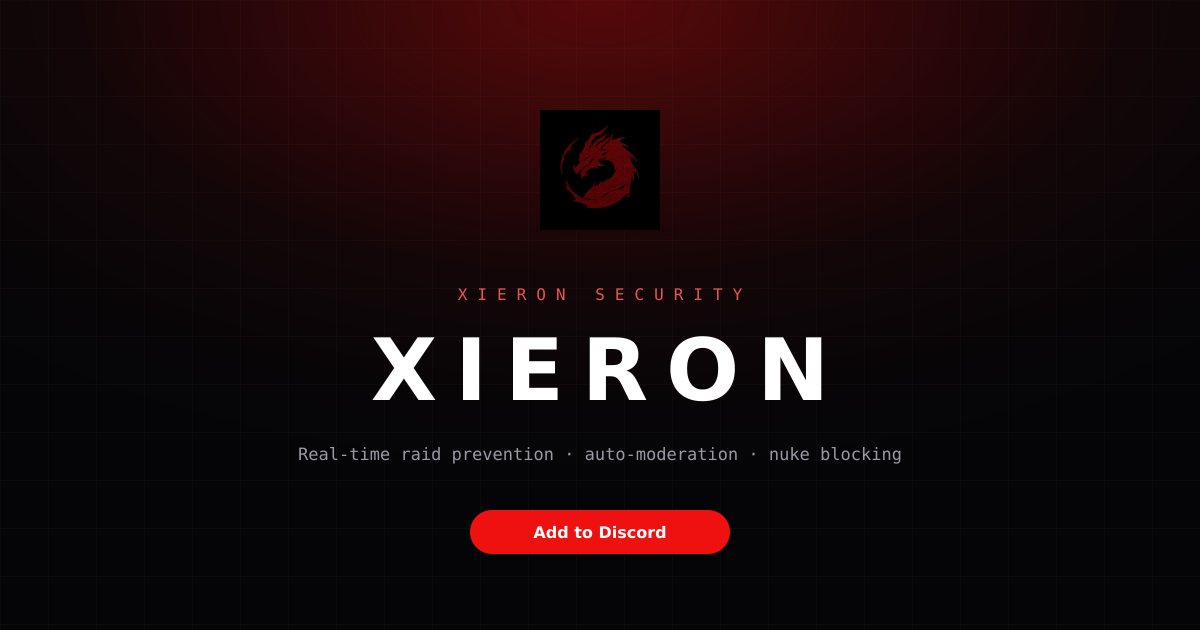
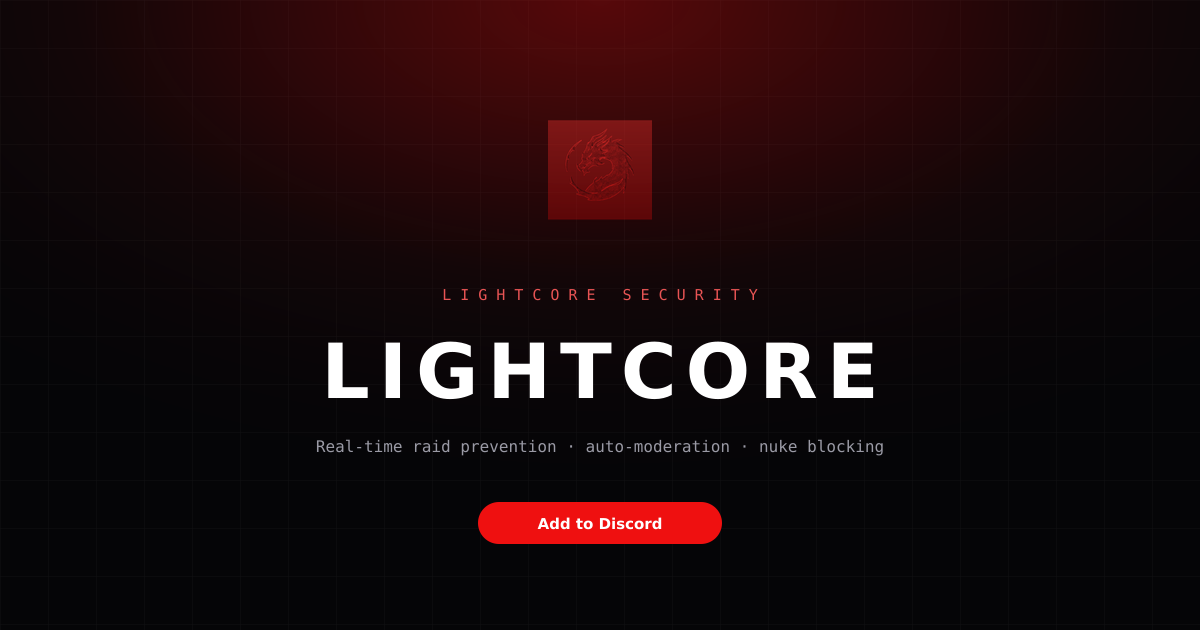
rebrand: XIERON -> LightCore everywhere
- all copy, metadata, titles, JSON-LD and legal pages
- brand assets renamed (lightcore-512/logo/mark), OG image regenerated
- new LIGHT·CORE wordmark tuned for 9 glyphs
- site.url -> https://lightcore.vercel.app
- package/lockfile name -> lightcore
- fix: console rows no longer clip at the top
- fix: SVG <title> no longer leaks into document title

diff --git a/src/app/layout.tsx b/src/app/layout.tsx
@@ -60,13 +60,13 @@ const jetbrainsMono = localFont({
 export const metadata: Metadata = {
   metadataBase: new URL(site.url),
   title: {
-    default: "XIERON | Advanced Discord Security & Anti-Nuke Bot",
-    template: "%s | XIERON",
+    default: "LIGHTCORE | Advanced Discord Security & Anti-Nuke Bot",
+    template: "%s | LIGHTCORE",
   },
   description: site.description,
-  applicationName: "XIERON",
+  applicationName: "LIGHTCORE",
   keywords: [
-    "Xieron",
+    "LightCore",
     "Discord security bot",
     "anti-nuke",
     "anti-raid",
@@ -75,27 +75,27 @@ export const metadata: Metadata = {
     "Discord moderation",
     "server protection",
   ],
-  authors: [{ name: "XIERON Security" }],
-  creator: "XIERON Security",
+  authors: [{ name: "LightCore Security" }],
+  creator: "LightCore Security",
   openGraph: {
     type: "website",
     locale: "en_US",
     url: site.url,
-    siteName: "XIERON",
-    title: "XIERON | Advanced Discord Security & Anti-Nuke Bot",
+    siteName: "LIGHTCORE",
+    title: "LIGHTCORE | Advanced Discord Security & Anti-Nuke Bot",
     description: site.description,
     images: [
       {
         url: "/brand/og.png",
         width: 1200,
         height: 630,
-        alt: "XIERON — Advanced Discord Security",
+        alt: "LIGHTCORE — Advanced Discord Security",
       },
     ],
   },
   twitter: {
     card: "summary_large_image",
-    title: "XIERON | Advanced Discord Security & Anti-Nuke Bot",
+    title: "LIGHTCORE | Advanced Discord Security & Anti-Nuke Bot",
     description: site.description,
     images: ["/brand/og.png"],
   },
@@ -105,7 +105,7 @@ export const metadata: Metadata = {
     googleBot: { index: true, follow: true },
   },
   icons: {
-    icon: [{ url: "/brand/xieron-512.png", type: "image/png" }],
+    icon: [{ url: "/brand/lightcore-512.png", type: "image/png" }],
     apple: [{ url: "/brand/apple-touch-icon.png" }],
   },
 };

diff --git a/src/lib/site.ts b/src/lib/site.ts
@@ -1,13 +1,13 @@
 export const site = {
-  name: "XIERON",
-  tagline: "XIERON SECURITY",
+  name: "LIGHTCORE",
+  tagline: "LIGHTCORE SECURITY",
   description:
     "Real-time raid prevention, auto-moderation, and nuke blocking. Keep your Discord server protected around the clock, with zero setup latency.",
-  url: "https://xieron.com",
+  url: "https://lightcore.vercel.app",
   invite:
     "https://discord.com/oauth2/authorize?client_id=1391639072405196932&permissions=8&scope=bot%20applications.commands",
   dashboard: "/login",
-  discord: "https://discord.gg/xieron",
+  discord: "https://discord.gg/lightcore",
 } as const;
 
 export const nav = [
@@ -257,7 +257,7 @@ export const setupSteps = [
     step: "01",
     phase: "AUTH",
     title: "Invite the Bot",
-    copy: "Integrate Xieron into your guild instantly. A single authorization step securely binds the guard engine to your server with optimized administrative privileges.",
+    copy: "Integrate LightCore into your guild instantly. A single authorization step securely binds the guard engine to your server with optimized administrative privileges.",
     bullets: [
       "Instant OAuth2 gateway link",
       "Requires Manage Server permission only",
@@ -358,7 +358,7 @@ export const modules = [
 
 export const faqs = [
   {
-    q: "How fast does Xieron react to a nuke attempt?",
+    q: "How fast does LightCore react to a nuke attempt?",
     a: "Gateway events are intercepted in-process and evaluated against per-actor rate gates before the action is committed. Median detection-to-mitigation latency is 480ms, and rollback begins immediately after a threat is confirmed.",
   },
   {

diff --git a/src/components/site/Hero.tsx b/src/components/site/Hero.tsx
@@ -34,8 +34,8 @@ export function Hero() {
               </span>
             </div>
 
-            <h1 className="mt-7 font-display text-[44px] font-bold leading-[0.95] tracking-[0.16em] text-white sm:text-[62px] lg:text-[74px]">
-              XIERON
+            <h1 className="mt-7 font-display text-[38px] font-bold leading-[0.95] tracking-[0.08em] text-white sm:text-[54px] lg:text-[64px]">
+              <span className="text-zinc-400">LIGHT</span><span className="text-brand-500">CORE</span>
             </h1>
 
             <p className="mt-6 max-w-[34rem] text-balance text-[15.5px] leading-relaxed text-zinc-400 sm:text-[16.5px]">
@@ -117,7 +117,7 @@ function ConsolePanel() {
           <div className="pointer-events-none absolute inset-x-0 top-0 h-px animate-scan bg-gradient-to-r from-transparent via-brand-500/50 to-transparent" />
           <div
             ref={scroller}
-            className="flex h-[286px] flex-col justify-end gap-2 overflow-hidden font-mono text-[11.5px] leading-relaxed"
+            className="flex h-[286px] flex-col gap-2 overflow-hidden font-mono text-[11.5px] leading-relaxed [&>*:first-child]:mt-auto"
           >
             {logs
               .slice(Math.max(0, step - 6), step)
@@ -152,7 +152,7 @@ function ConsolePanel() {
       {/* floating badge */}
       <div className="absolute -bottom-5 -left-4 hidden animate-floaty items-center gap-2.5 rounded-xl border border-white/10 bg-ink-900/90 px-3.5 py-2.5 shadow-panel backdrop-blur sm:flex">
         <Image
-          src="/brand/xieron-512.png"
+          src="/brand/lightcore-512.png"
           alt=""
           width={22}
           height={22}

diff --git a/src/app/terms/page.tsx b/src/app/terms/page.tsx
@@ -4,7 +4,7 @@ import { PageShell, Prose } from "@/components/site/PageShell";
 export const metadata: Metadata = {
   title: "Terms of Service",
   description:
-    "The terms that govern use of the XIERON Discord security bot and dashboard.",
+    "The terms that govern use of the LIGHTCORE Discord security bot and dashboard.",
 };
 
 export default function TermsPage() {
@@ -12,7 +12,7 @@ export default function TermsPage() {
     <PageShell
       eyebrow="terms"
       title="Terms of Service"
-      intro="By inviting XIERON to a guild you agree to the terms below. They exist to keep the guard engine predictable."
+      intro="By inviting LIGHTCORE to a guild you agree to the terms below. They exist to keep the guard engine predictable."
     >
       <Prose>
         <p>
@@ -20,7 +20,7 @@ export default function TermsPage() {
         </p>
         <h2>Acceptable use</h2>
         <p>
-          XIERON is provided for the protection of Discord communities. You may
+          LIGHTCORE is provided for the protection of Discord communities. You may
           not use it to harass members, to bypass Discord&apos;s Terms of
           Service, or to target guilds you do not own or moderate.
         </p>
@@ -38,7 +38,7 @@ export default function TermsPage() {
         </p>
         <h2>Limitation of liability</h2>
         <p>
-          To the maximum extent permitted by law, XIERON Security is not liable
+          To the maximum extent permitted by law, LightCore Security is not liable
           for indirect damages arising from moderation actions, rollbacks or
           downtime.
         </p>

diff --git a/src/app/login/page.tsx b/src/app/login/page.tsx
@@ -8,7 +8,7 @@ import { site } from "@/lib/site";
 export const metadata: Metadata = {
   title: "Dashboard Login",
   description:
-    "Sign in to the XIERON dashboard to manage whitelists, rate limits, audit logs and voice modules.",
+    "Sign in to the LIGHTCORE dashboard to manage whitelists, rate limits, audit logs and voice modules.",
 };
 
 export default function LoginPage() {
@@ -20,8 +20,8 @@ export default function LoginPage() {
           <Link href="/" className="mb-8 flex items-center justify-center gap-3">
             <Logo size={38} />
             <span className="flex flex-col leading-none">
-              <span className="font-display text-[18px] font-semibold tracking-[0.24em] text-white">
-                XIERON
+              <span className="font-display text-[17px] font-semibold tracking-[0.16em] text-white">
+                LIGHT<span className="text-brand-500">CORE</span>
               </span>
               <span className="mt-1 font-mono text-[8px] uppercase tracking-[0.42em] text-brand-400/80">
                 Security
@@ -93,7 +93,7 @@ export default function LoginPage() {
 
           <p className="mt-6 text-center font-mono text-[10px] uppercase tracking-[0.2em] text-zinc-600">
             <Link href="/" className="transition-colors hover:text-zinc-300">
-              ← back to xieron.com
+              ← back to lightcore.vercel.app
             </Link>
           </p>
         </div>

diff --git a/src/components/site/Footer.tsx b/src/components/site/Footer.tsx
@@ -17,8 +17,8 @@ export function Footer() {
           <div>
             <Link href="/" className="flex items-center gap-3">
               <Logo size={32} />
-              <span className="font-display text-[15px] font-semibold tracking-[0.24em] text-white">
-                XIERON
+              <span className="font-display text-[15px] font-semibold tracking-[0.18em] text-white">
+                LIGHT<span className="text-brand-500">CORE</span>
               </span>
             </Link>
             <p className="mt-4 max-w-xs text-[13px] leading-relaxed text-zinc-500">
@@ -53,7 +53,7 @@ export function Footer() {
 
         <div className="mt-12 flex flex-col items-center justify-between gap-4 border-t border-white/[0.07] pt-6 sm:flex-row">
           <p className="font-mono text-[10.5px] tracking-wide text-zinc-600">
-            © {new Date().getFullYear()} XIERON Security. All rights reserved.
+            © {new Date().getFullYear()} LightCore Security. All rights reserved.
           </p>
           <div className="flex items-center gap-2 font-mono text-[10px] uppercase tracking-[0.2em] text-zinc-600">
             <span className="size-1.5 animate-ticker rounded-full bg-emerald-400" />

diff --git a/src/app/privacy/page.tsx b/src/app/privacy/page.tsx
@@ -4,7 +4,7 @@ import { PageShell, Prose } from "@/components/site/PageShell";
 export const metadata: Metadata = {
   title: "Privacy Policy",
   description:
-    "How XIERON collects, processes and retains Discord guild data while protecting your server.",
+    "How LIGHTCORE collects, processes and retains Discord guild data while protecting your server.",
 };
 
 export default function PrivacyPage() {
@@ -12,7 +12,7 @@ export default function PrivacyPage() {
     <PageShell
       eyebrow="privacy"
       title="Privacy Policy"
-      intro="XIERON processes the minimum amount of Discord data required to keep your server safe. This page explains exactly what that means."
+      intro="LIGHTCORE processes the minimum amount of Discord data required to keep your server safe. This page explains exactly what that means."
     >
       <Prose>
         <p>

diff --git a/src/components/site/VoiceMaster.tsx b/src/components/site/VoiceMaster.tsx
@@ -46,7 +46,7 @@ function VoicePanelMock() {
               <div key={i} className="flex items-center gap-2 py-1">
                 <span className="relative size-5 shrink-0 overflow-hidden rounded-full ring-1 ring-white/10">
                   <Image
-                    src="/brand/xieron-512.png"
+                    src="/brand/lightcore-512.png"
                     alt=""
                     width={20}
                     height={20}
@@ -87,7 +87,7 @@ function MemberCard() {
       <div className="flex items-center gap-3">
         <span className="relative size-10 shrink-0 overflow-hidden rounded-full ring-2 ring-brand-600/40">
           <Image
-            src="/brand/xieron-512.png"
+            src="/brand/lightcore-512.png"
             alt=""
             width={40}
             height={40}

diff --git a/src/components/site/Navbar.tsx b/src/components/site/Navbar.tsx
@@ -37,12 +37,12 @@ export function Navbar() {
           <Link
             href="/"
             className="group flex items-center gap-3"
-            aria-label="Xieron home"
+            aria-label="LightCore home"
           >
             <Logo size={34} />
             <span className="flex flex-col leading-none">
-              <span className="font-display text-[17px] font-semibold tracking-[0.22em] text-white">
-                XIERON
+              <span className="font-display text-[16px] font-semibold tracking-[0.16em] text-white">
+                LIGHT<span className="text-brand-500">CORE</span>
               </span>
               <span className="mt-1 font-mono text-[8px] uppercase tracking-[0.42em] text-brand-400/80">
                 Security

diff --git a/src/app/not-found.tsx b/src/app/not-found.tsx
@@ -12,8 +12,8 @@ export default function NotFound() {
         <p className="mt-8 font-mono text-[11px] uppercase tracking-[0.34em] text-brand-400/80">
           404 · route not guarded
         </p>
-        <h1 className="mt-4 font-display text-[40px] font-semibold leading-none tracking-[0.14em] text-white sm:text-[64px]">
-          XIERON
+        <h1 className="mt-4 font-display text-[34px] font-semibold leading-none tracking-[0.06em] text-white sm:text-[54px]">
+          LIGHT<span className="text-brand-500">CORE</span>
         </h1>
         <p className="mt-4 max-w-sm text-[14px] leading-relaxed text-zinc-400">
           This page does not exist. The guard engine could not resolve the

diff --git a/src/components/site/TrustedBy.tsx b/src/components/site/TrustedBy.tsx
@@ -78,7 +78,7 @@ export function TrustedBy() {
             Securing The Best
           </h2>
           <p className="mt-4 text-balance text-[15px] leading-relaxed text-zinc-400">
-            XIERON is the security partner for Discord&apos;s fastest-growing
+            LIGHTCORE is the security partner for Discord&apos;s fastest-growing
             communities.
           </p>
         </Reveal>

diff --git a/src/app/docs/page.tsx b/src/app/docs/page.tsx
@@ -6,7 +6,7 @@ import { features } from "@/lib/site";
 export const metadata: Metadata = {
   title: "Documentation",
   description:
-    "Commands, modules and configuration reference for the XIERON Discord security bot.",
+    "Commands, modules and configuration reference for the LIGHTCORE Discord security bot.",
 };
 
 const core = [
